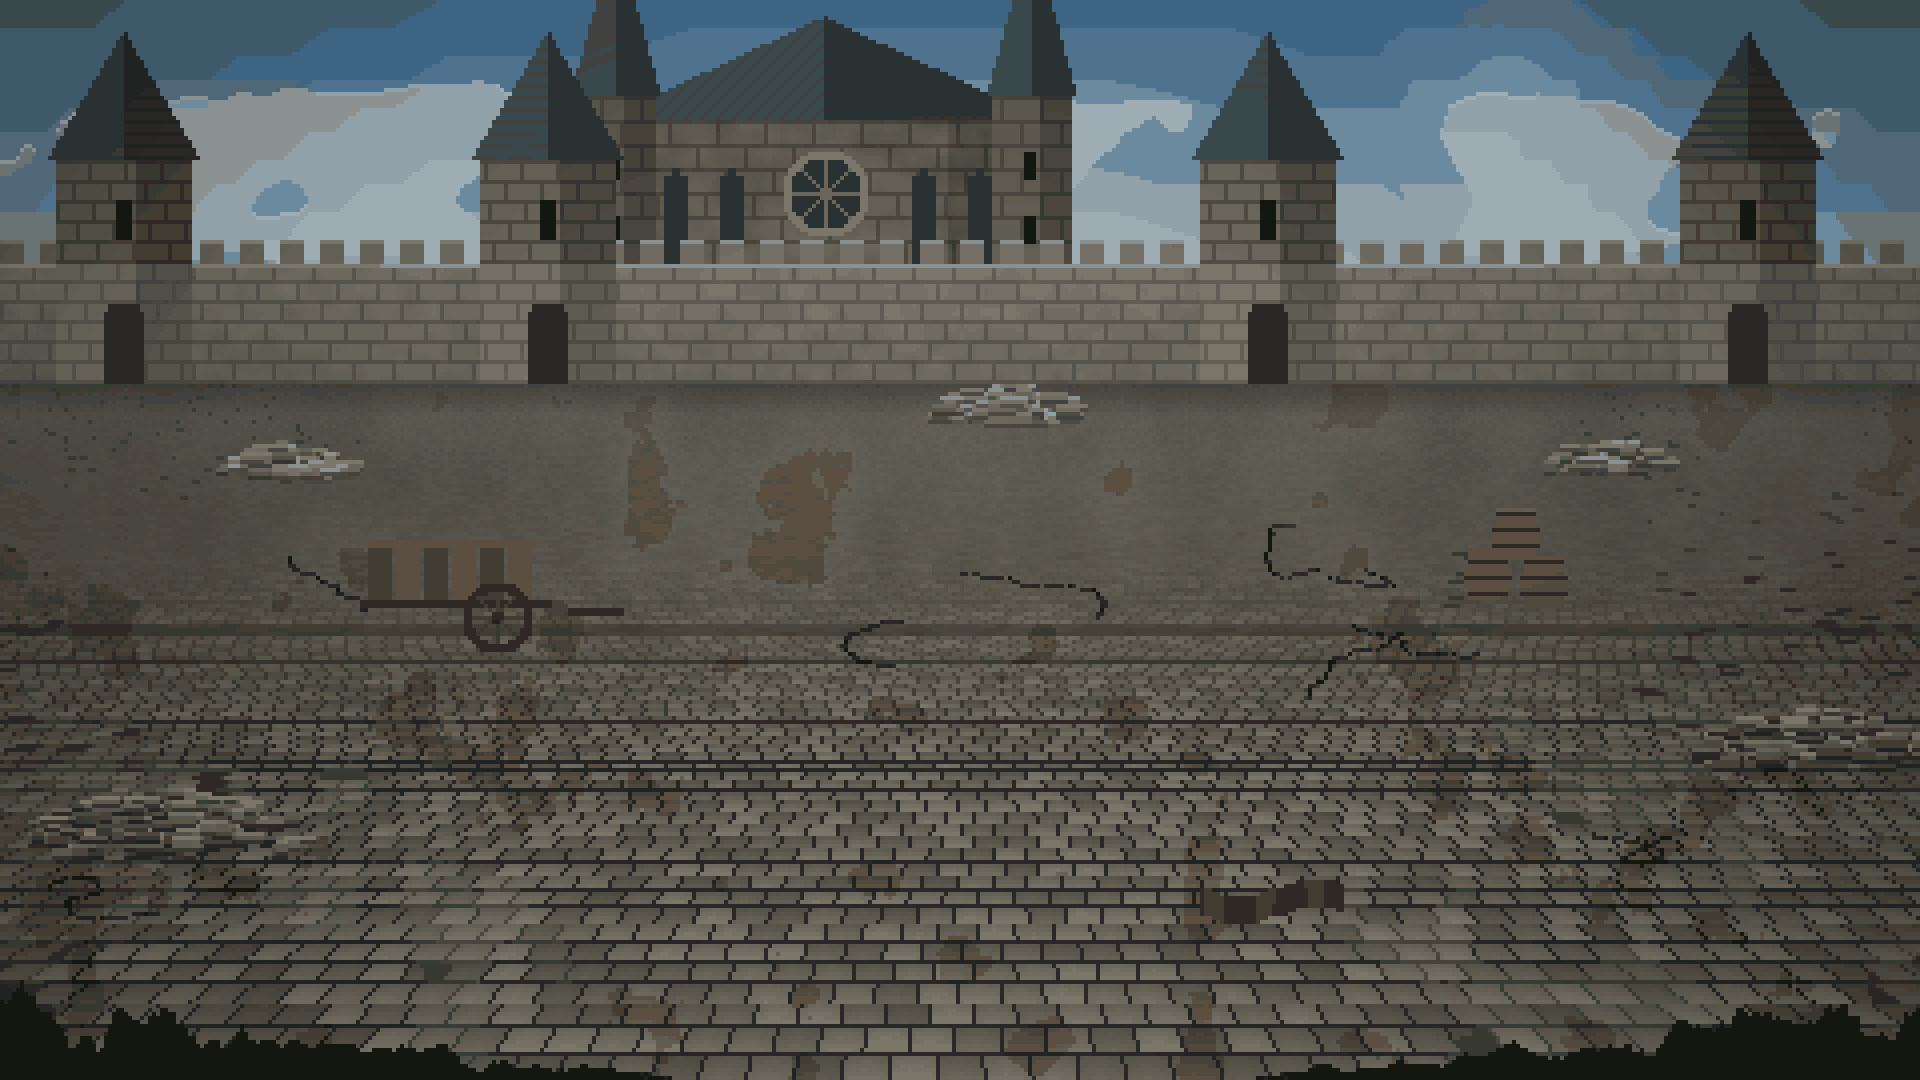
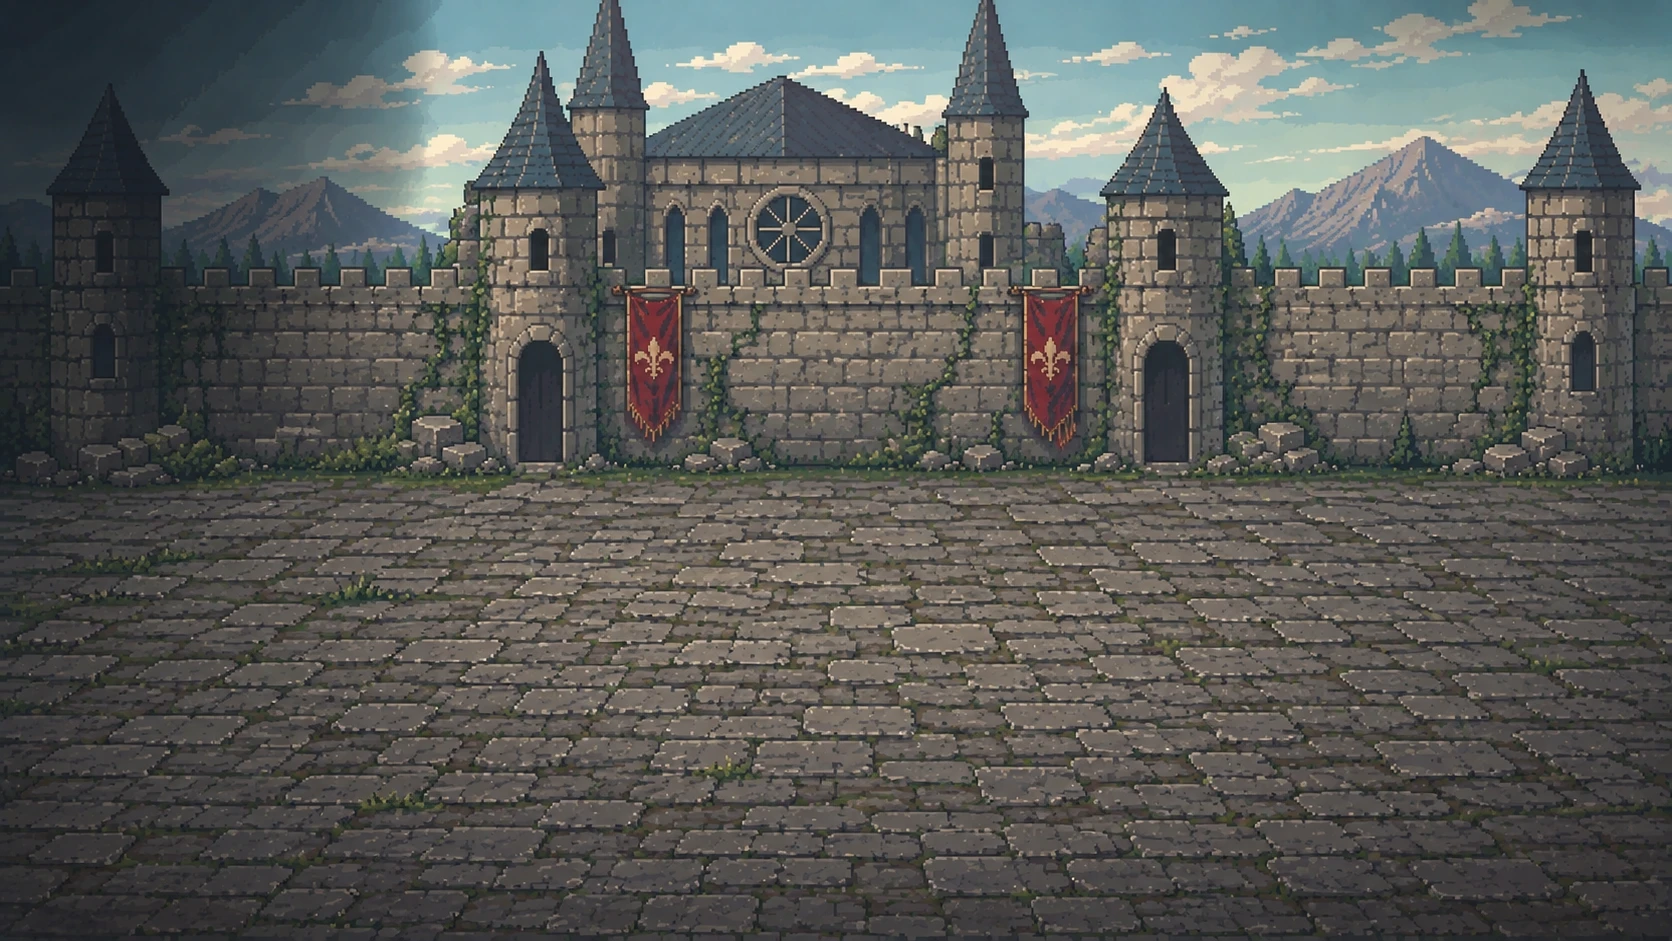
Castle grounds day and dusk backdrops; more compact party cards in battle
- The castle grounds' day and dusk battle backgrounds are now hand-made
  art (1672 x 941, stretched to the canvas like the plains'); the night
  one is still painted by battleBackgrounds.py, which no longer writes the
  other two.
- The party's battle cards are a little smaller (330 x 130, 24 px margins,
  8 px gaps; the name at 29 px, squeezed to fit if long), so more of the
  fight shows; the bar numbers measure their room against the new width.

Claude-Session: https://claude.ai/code/session_01NTvxszTEHUQpShhkxhNh8t

diff --git a/frontend/src/screens/battle/battleHUDRenderer.js b/frontend/src/screens/battle/battleHUDRenderer.js
@@ -19,7 +19,13 @@ export class BattleHUDRenderer {
       BAR_HEIGHT: 10,
       BAR_WIDTH: 180,
       PADDING_X: 24,
-      PADDING_Y: 14
+      PADDING_Y: 14,
+      // the party's cards down the left, a little more compact than the enemies' (more of the fight shows): the name, three bars, a strip for
+      // status icons
+      PARTY_W: 330,
+      PARTY_H: 130,
+      PARTY_GAP: 8,
+      PARTY_MARGIN: 24
     };
     this.displayStats = new WeakMap();
     this.BAR_LERP_SPEED = 5.0;
@@ -154,10 +160,11 @@ export class BattleHUDRenderer {
   }
 
   drawPartyCards(party, state, hitboxes = []) {
-    const targetX = 36;
-    const hiddenX = -this.HUD.CARD_W - 48;
-    const startY = 36;
-    const spacingY = 20;
+    const W = this.HUD.PARTY_W, H = this.HUD.PARTY_H;
+    const targetX = this.HUD.PARTY_MARGIN;
+    const hiddenX = -W - 48;
+    const startY = this.HUD.PARTY_MARGIN;
+    const spacingY = 18;
     const activeChar = state.activeParty?.[state.activePartyIndex];
     const selectedAbility = state.selectedAction || (activeChar?.abilities?.[state.menuIndex]);
     const targetGroup = selectedAbility?.targetGroup || state.targetGroup;
@@ -169,7 +176,7 @@ export class BattleHUDRenderer {
       if (slideProgress <= 0) return;
 
       const currentX = hiddenX + ((targetX - hiddenX) * Math.pow(slideProgress, 0.5));
-      const y = startY + (index * (this.HUD.CARD_H + this.HUD.GAP));
+      const y = startY + (index * (H + this.HUD.PARTY_GAP));
 
       let isValidTarget = true;
       if (state.phase === 'SELECT_TARGET') {
@@ -183,10 +190,10 @@ export class BattleHUDRenderer {
           id: targetId,
           x: currentX,
           y: y,
-          w: this.HUD.CARD_W,
-          h: this.HUD.CARD_H,
-          width: this.HUD.CARD_W,
-          height: this.HUD.CARD_H,
+          w: W,
+          h: H,
+          width: W,
+          height: H,
           cursor: isValidTarget ? 'pointer' : 'not-allowed'
         });
       }
@@ -197,29 +204,38 @@ export class BattleHUDRenderer {
         this.ctx.globalAlpha = 0.4;
       }
 
-      this.drawDarkPanel(currentX, y, this.HUD.CARD_W, this.HUD.CARD_H);
+      this.drawDarkPanel(currentX, y, W, H);
 
       // The target being aimed at (mouse hover or keyboard cursor) is "highlighted"; targets already picked are "selected"
       if (state.phase === 'SELECT_TARGET') {
         const flags = this.ui.flags(targetId, isValidTarget ? state.hoveredElement?.id : null, { selected: !!isAlreadySelected });
-        this.ui.drawStateBox(currentX, y, this.HUD.CARD_W, this.HUD.CARD_H, flags);
+        this.ui.drawStateBox(currentX, y, W, H, flags);
       }
 
-      this.ctx.font = UITheme.fonts.body;
+      this.ctx.font = UITheme.fonts.small;
       this.ctx.fillStyle = UITheme.colors.textMain;
       this.ctx.textAlign = 'left';
       this.ctx.textBaseline = 'alphabetic';
-      this.ctx.fillText(member.name, currentX + this.HUD.PADDING_X, y + 40);
+      // a long name is squeezed to fit the card rather than run off it
+      const nameRoom = W - this.HUD.PADDING_X * 2;
+      const nameW = this.ctx.measureText(member.name).width;
+      if (nameW > nameRoom) {
+        this.ctx.save();
+        this.ctx.translate(currentX + this.HUD.PADDING_X, y + 34);
+        this.ctx.scale(nameRoom / nameW, 1);
+        this.ctx.fillText(member.name, 0, 0);
+        this.ctx.restore();
+      } else this.ctx.fillText(member.name, currentX + this.HUD.PADDING_X, y + 34);
 
       // Status icons have a strip of their own along the bottom of the card, so they can never run into the name or off the edge
-      this.drawStatusEffects(member, currentX + this.HUD.PADDING_X, y + 110, { maxWidth: this.HUD.CARD_W - this.HUD.PADDING_X * 2 });
+      this.drawStatusEffects(member, currentX + this.HUD.PADDING_X, y + 96, { maxWidth: W - this.HUD.PADDING_X * 2 });
 
       const displayHp = this.getDisplayStat(member, 'hp', member.hp || 0);
       const displayStam = this.getDisplayStat(member, 'stamina', member.stamina || 0);
       const displayIns = this.getDisplayStat(member, 'insight', member.insight || 0);
 
       const barX = currentX + this.HUD.PADDING_X;
-      let currentY = y + 56;
+      let currentY = y + 44;
 
       this.ui.drawBar(barX, currentY, this.HUD.BAR_WIDTH, this.HUD.BAR_HEIGHT, displayHp, member.maxHp || 10, UITheme.colors.hp, UITheme.colors.hpDim);
       this.drawBarText(displayHp, member.maxHp, barX, currentY);
@@ -309,7 +325,7 @@ export class BattleHUDRenderer {
   drawBarText(current, max, barX, barY) {
     this.ctx.save();
     // the room between the bar and the card's right edge: a big number is shortened or made smaller (CanvasUI.fitFraction) instead of running off the card
-    const room = this.HUD.CARD_W - this.HUD.PADDING_X * 2 - this.HUD.BAR_WIDTH - 19;
+    const room = this.HUD.PARTY_W - this.HUD.PADDING_X * 2 - this.HUD.BAR_WIDTH - 19;   // (only the party's cards show the numbers)
     const fit = this.ui.fitFraction(current, max, room, UITheme.fonts.cardMono);
     this.ctx.font = fit.font;
     this.ctx.fillStyle = UITheme.colors.textMuted;

diff --git a/frontend/src/main.js b/frontend/src/main.js
@@ -418,7 +418,7 @@ dariusTheGrovelerPortrait:'./assets/sprites/darius_the_groveler/darius_the_grove
     snowyMountainsBattleDayBg: './assets/backgrounds/snowy_mountains_battle_day_bg.png',
     snowyMountainsBattleDuskBg: './assets/backgrounds/snowy_mountains_battle_dusk_bg.png',
     snowyMountainsBattleNightBg: './assets/backgrounds/snowy_mountains_battle_night_bg.png',
-    // painted in code (tools/art/battleBackgrounds.py): a ruined castle's courtyard at three hours, and inside an abandoned house
+    // a ruined castle's courtyard at three hours (day and dusk hand-made; night, and the abandoned house's interior, painted by tools/art/battleBackgrounds.py)
     castleGroundsBattleDayBg: './assets/backgrounds/castle_grounds_battle_day_bg.png',
     castleGroundsBattleDuskBg: './assets/backgrounds/castle_grounds_battle_dusk_bg.png',
     castleGroundsBattleNightBg: './assets/backgrounds/castle_grounds_battle_night_bg.png',

diff --git a/tools/art/battleBackgrounds.py b/tools/art/battleBackgrounds.py
@@ -2,7 +2,7 @@
 # band): drawn at 480 x 270 and set 4x larger (1920 x 1080), each pixel a 4 px block, quantized to a small palette.
 #   python3 tools/art/battleBackgrounds.py frontend/src/assets/backgrounds
 # writes
-#   castle_grounds_battle_day_bg.png / _dusk_bg.png / _night_bg.png   a ruined castle's courtyard: its cobbles running back to the inner wall,
+#   castle_grounds_battle_night_bg.png   (day and dusk are hand-made art now)   a ruined castle's courtyard: its cobbles running back to the inner wall,
 #                                                                     towers along it and the keep rising behind; rubble, moss, a broken cart
 #   house_interior_battle_bg.png                                       inside an abandoned house: plank floor, half-timbered walls with the plaster
 #                                                                     falling away, a cold hearth, a shuttered window letting in a shaft of light
@@ -421,6 +421,7 @@ def house():
         if 0 <= x < W and 0 <= y < H: img[y, x] = lerp(img[y, x], (255, 244, 214), 0.6)
     finish(img, 'house_interior_battle_bg.png', colors=60)
 
-for t in ('day', 'dusk', 'night'):
+# (the castle grounds' day and dusk backgrounds are now hand-made art: only the night one is still painted here)
+for t in ('night',):
     castle(t)
 house()
